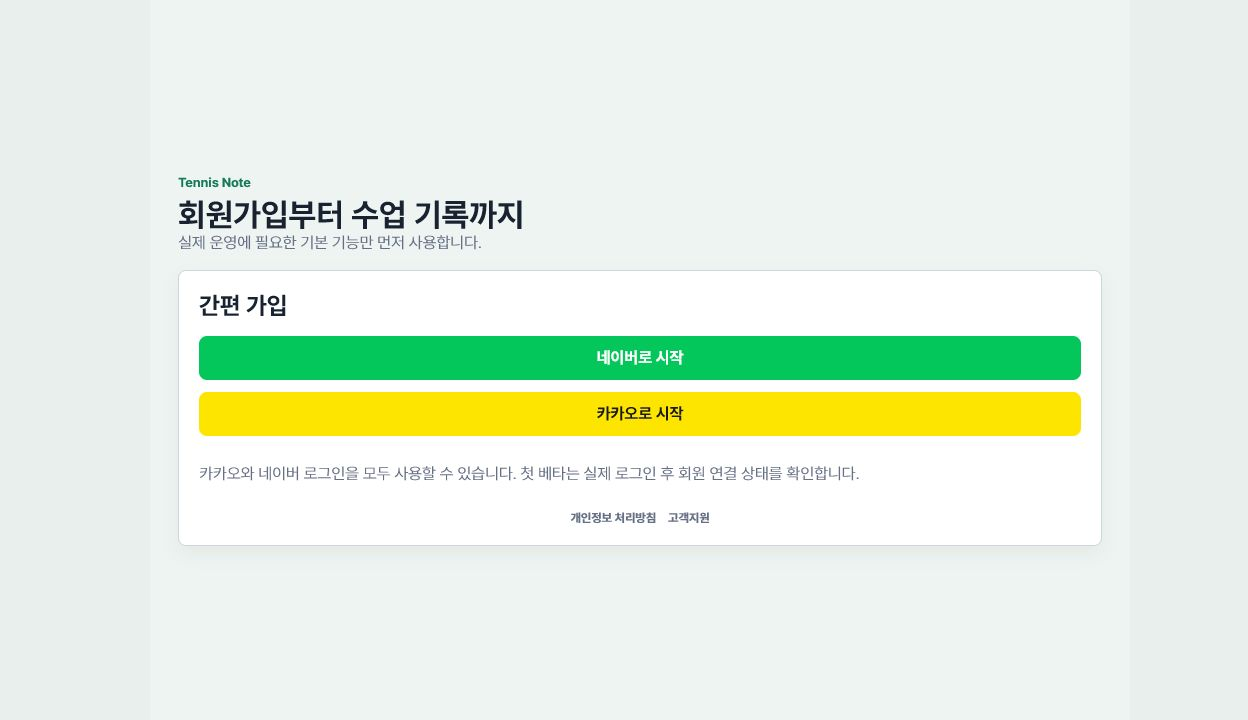
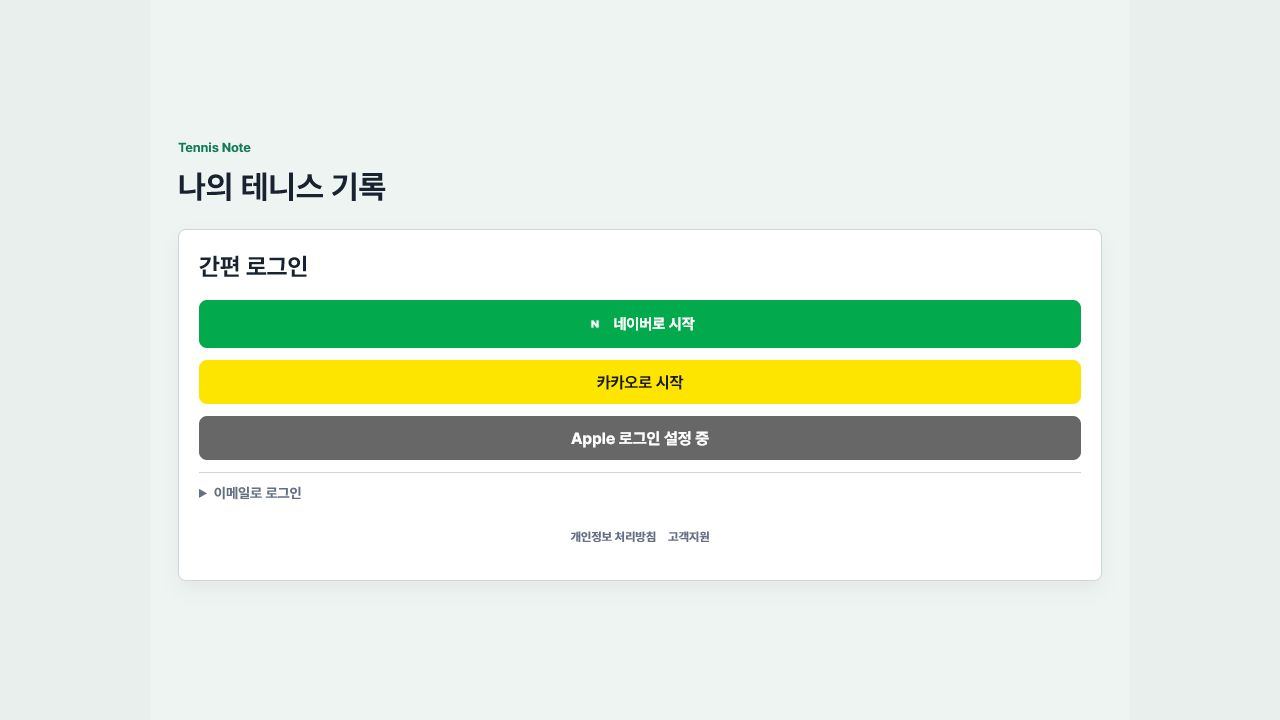
Prepare Naver login review

Changed region(s): [[0.125, 0.2444, 0.875, 0.7028], [0.1562, 0.7028, 0.875, 0.7639], [0.125, 0.1833, 0.1875, 0.2139]]

diff --git a/app/tennis-note-member-app/styles.css b/app/tennis-note-member-app/styles.css
@@ -7,7 +7,7 @@
   --green: #157a5b;
   --blue: #2456a6;
   --yellow: #fee500;
-  --naver: #03c75a;
+  --naver: #03a94d;
   --amber: #b54708;
   --soft-green: #e7f6ef;
   --soft-blue: #edf4ff;
@@ -173,8 +173,26 @@ button {
 }
 
 .provider.naver {
+  display: inline-flex;
+  align-items: center;
+  justify-content: center;
+  gap: 8px;
   background: var(--naver);
   color: white;
+  min-height: 48px;
+  overflow: hidden;
+  padding: 0 20px;
+}
+
+.provider.naver img {
+  display: block;
+  width: 20px;
+  height: 20px;
+}
+
+.provider.naver span {
+  font-size: 15px;
+  line-height: 1;
 }
 
 .provider.apple {
@@ -3829,7 +3847,7 @@ body.identity-setup-required {
 }
 
 .payment-method-option[data-select-payment-method="naverpay"].is-selected {
-  border-color: #03c75a;
+  border-color: #03a94d;
   color: #00883e;
   background: #f2fff7;
 }

diff --git a/app/tennis-note-member-app/index.html b/app/tennis-note-member-app/index.html
@@ -7,7 +7,7 @@
     <meta name="apple-mobile-web-app-capable" content="yes" />
     <meta name="apple-mobile-web-app-title" content="Tennis Note" />
     <meta name="apple-mobile-web-app-status-bar-style" content="default" />
-    <title>테니스노트 현실 MVP</title>
+    <title>테니스노트</title>
     <link rel="manifest" href="./manifest.webmanifest" />
     <link rel="icon" href="./assets/brand/app-icon-192.png" type="image/png" />
     <link rel="apple-touch-icon" href="./assets/brand/app-icon-180.png" />
@@ -18,7 +18,7 @@
       <img src="./assets/brand/launch-splash.png" alt="" />
       <span>Tennis Note 불러오는 중</span>
     </section>
-    <main class="app-shell" aria-label="테니스노트 현실 MVP">
+    <main class="app-shell" aria-label="테니스노트">
       <section id="loginScreen" class="login-screen">
         <div class="brand">
           <p>Tennis Note</p>
@@ -27,7 +27,10 @@
 
         <div class="login-card">
           <h2>간편 로그인</h2>
-          <button class="provider naver" type="button" data-login-provider="네이버">네이버로 시작</button>
+          <button class="provider naver" type="button" data-login-provider="네이버" aria-label="네이버 로그인">
+            <img src="./assets/brand/naver-login-green-icon-h48.png" alt="" aria-hidden="true" />
+            <span>네이버로 시작</span>
+          </button>
           <button class="provider kakao" type="button" data-login-provider="카카오">카카오로 시작</button>
           <button class="provider apple is-preparing" type="button" data-login-provider="Apple" data-ready-label="Apple로 시작" disabled>Apple 로그인 확인 중</button>
           <details class="email-login-panel">

diff --git a/app/tennis-note-legal/privacy.html b/app/tennis-note-legal/privacy.html
@@ -83,9 +83,8 @@
     <main>
       <a class="app-back" href="../tennis-note-member-app/index.html">← 앱으로 돌아가기</a>
       <article>
-        <p class="muted">시행일: 2026년 7월 17일 · 초안</p>
+        <p class="muted">시행일: 2026년 7월 18일</p>
         <h1>Tennis Note 개인정보 처리방침</h1>
-        <p class="notice">이 문서는 스토어 제출과 베타 테스트를 위한 초안입니다. 공개 배포 전 사업자 정보, 고객지원 연락처, 최종 운영 정책을 확인해 업데이트합니다.</p>
 
         <section>
           <h2>1. 처리하는 개인정보</h2>
@@ -144,8 +143,8 @@
         </section>
 
         <section>
-          <h2>8. 고객지원</h2>
-          <p>개인정보 관련 문의는 <a href="./support.html">고객지원 안내</a> 페이지의 연락 방법을 이용해 접수합니다. 탈퇴 요청은 <a href="./delete-account.html">계정 및 데이터 삭제 안내</a>에서 절차와 삭제·보관 범위를 확인할 수 있습니다.</p>
+          <h2>8. 개인정보 보호 및 고객지원</h2>
+          <p>개인정보 처리자는 테니스클럽하우스입니다. 개인정보 관련 문의는 고객지원 전화 <a href="tel:[phone redacted]">[phone redacted]</a>, <a href="https://pf.kakao.com/_UQPpb/chat" target="_blank" rel="noreferrer">공식 카카오채널</a> 또는 <a href="./support.html">고객지원 안내</a>를 통해 접수할 수 있습니다. 운영 주소는 서울시 광진구 능동로 237 리스빌딩 지하 1층입니다. 탈퇴 요청은 <a href="./delete-account.html">계정 및 데이터 삭제 안내</a>에서 절차와 삭제·보관 범위를 확인할 수 있습니다.</p>
         </section>
       </article>
     </main>

diff --git a/privacy.html b/privacy.html
@@ -83,9 +83,8 @@
     <main>
       <a class="app-back" href="./index.html">← 서비스 홈</a>
       <article>
-        <p class="muted">시행일: 2026년 7월 17일 · 초안</p>
+        <p class="muted">시행일: 2026년 7월 18일</p>
         <h1>Tennis Note 개인정보 처리방침</h1>
-        <p class="notice">이 문서는 스토어 제출과 베타 테스트를 위한 초안입니다. 공개 배포 전 사업자 정보, 고객지원 연락처, 최종 운영 정책을 확인해 업데이트합니다.</p>
 
         <section>
           <h2>1. 처리하는 개인정보</h2>
@@ -144,8 +143,8 @@
         </section>
 
         <section>
-          <h2>8. 고객지원</h2>
-          <p>개인정보 관련 문의는 <a href="./support.html">고객지원 안내</a> 페이지의 연락 방법을 이용해 접수합니다. 탈퇴 요청은 <a href="./delete-account.html">계정 및 데이터 삭제 안내</a>에서 절차와 삭제·보관 범위를 확인할 수 있습니다.</p>
+          <h2>8. 개인정보 보호 및 고객지원</h2>
+          <p>개인정보 처리자는 테니스클럽하우스입니다. 개인정보 관련 문의는 고객지원 전화 <a href="tel:[phone redacted]">[phone redacted]</a>, <a href="https://pf.kakao.com/_UQPpb/chat" target="_blank" rel="noreferrer">공식 카카오채널</a> 또는 <a href="./support.html">고객지원 안내</a>를 통해 접수할 수 있습니다. 운영 주소는 서울시 광진구 능동로 237 리스빌딩 지하 1층입니다. 탈퇴 요청은 <a href="./delete-account.html">계정 및 데이터 삭제 안내</a>에서 절차와 삭제·보관 범위를 확인할 수 있습니다.</p>
         </section>
       </article>
     </main>

diff --git a/app/tennis-note-legal/index.html b/app/tennis-note-legal/index.html
@@ -164,7 +164,8 @@
           <h1 id="heroTitle">Tennis Note</h1>
           <p class="hero-copy">회원가입부터 레슨 일정, 회원권, 수업 기록과 코치 피드백까지 한곳에서 확인합니다.</p>
           <div class="hero-actions">
-            <a class="button button-primary" href="#products">회원권 확인</a>
+            <a class="button button-primary" href="../tennis-note-member-app/index.html">웹앱 시작</a>
+            <a class="button button-secondary" href="#products">회원권 확인</a>
             <a class="button button-secondary" href="https://pf.kakao.com/_UQPpb/chat" target="_blank" rel="noreferrer">상담 시작</a>
           </div>
         </div>
@@ -200,7 +201,7 @@
           </div>
           <figure class="product-shot">
             <img src="./assets/member-app-login.png" alt="Tennis Note 회원 앱의 간편 로그인 화면" width="1280" height="720" />
-            <figcaption>현재 베타 통합 앱의 실제 가입 화면</figcaption>
+            <figcaption>현재 운영 중인 Tennis Note 웹앱의 간편 로그인 화면</figcaption>
           </figure>
         </div>
       </section>

diff --git a/index.html b/index.html
@@ -164,7 +164,8 @@
           <h1 id="heroTitle">Tennis Note</h1>
           <p class="hero-copy">회원가입부터 레슨 일정, 회원권, 수업 기록과 코치 피드백까지 한곳에서 확인합니다.</p>
           <div class="hero-actions">
-            <a class="button button-primary" href="#products">회원권 확인</a>
+            <a class="button button-primary" href="./app/">웹앱 시작</a>
+            <a class="button button-secondary" href="#products">회원권 확인</a>
             <a class="button button-secondary" href="https://pf.kakao.com/_UQPpb/chat" target="_blank" rel="noreferrer">상담 시작</a>
           </div>
         </div>
@@ -200,7 +201,7 @@
           </div>
           <figure class="product-shot">
             <img src="./assets/member-app-login.png" alt="Tennis Note 회원 앱의 간편 로그인 화면" width="1280" height="720" />
-            <figcaption>현재 베타 통합 앱의 실제 가입 화면</figcaption>
+            <figcaption>현재 운영 중인 Tennis Note 웹앱의 간편 로그인 화면</figcaption>
           </figure>
         </div>
       </section>

diff --git a/app/tennis-note-legal/support.html b/app/tennis-note-legal/support.html
@@ -68,9 +68,9 @@
     <main>
       <a class="app-back" href="../tennis-note-member-app/index.html">← 앱으로 돌아가기</a>
       <article>
-        <p class="muted">Tennis Note 베타 고객지원</p>
+        <p class="muted">Tennis Note 고객지원</p>
         <h1>고객지원 안내</h1>
-        <p>Tennis Note는 테니스클럽하우스 회원과 코치를 위한 레슨 운영 앱입니다. 베타 테스트 중 문의는 아래 기준으로 접수합니다.</p>
+        <p>Tennis Note는 테니스클럽하우스 회원과 코치를 위한 레슨 운영 앱입니다. 서비스 이용 문의는 아래 기준으로 접수합니다.</p>
 
         <section>
           <h2>문의 방법</h2>

diff --git a/support.html b/support.html
@@ -68,9 +68,9 @@
     <main>
       <a class="app-back" href="./index.html">← 서비스 홈</a>
       <article>
-        <p class="muted">Tennis Note 베타 고객지원</p>
+        <p class="muted">Tennis Note 고객지원</p>
         <h1>고객지원 안내</h1>
-        <p>Tennis Note는 테니스클럽하우스 회원과 코치를 위한 레슨 운영 앱입니다. 베타 테스트 중 문의는 아래 기준으로 접수합니다.</p>
+        <p>Tennis Note는 테니스클럽하우스 회원과 코치를 위한 레슨 운영 앱입니다. 서비스 이용 문의는 아래 기준으로 접수합니다.</p>
 
         <section>
           <h2>문의 방법</h2>